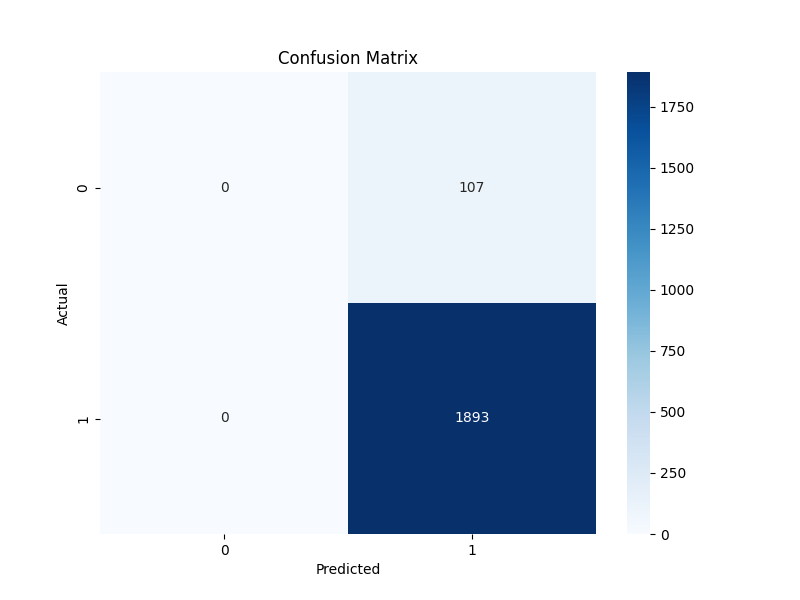
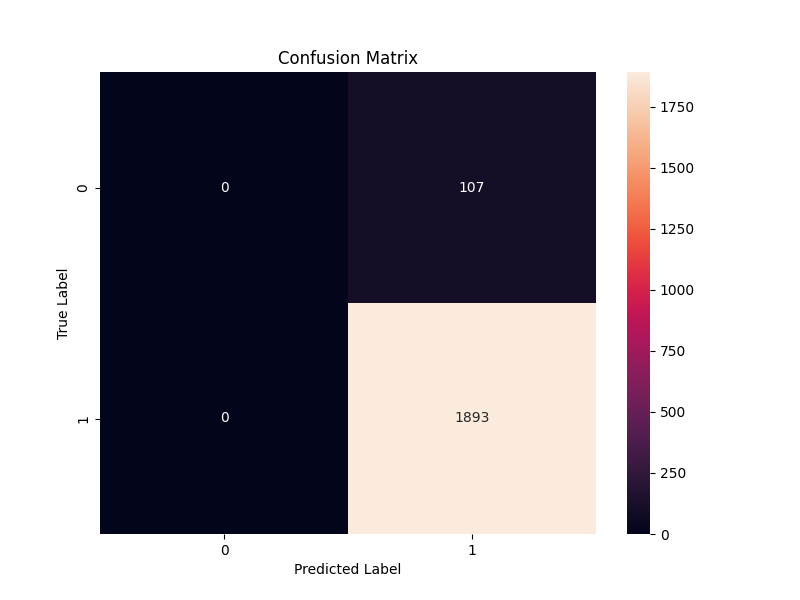
Capturing model performance within the model_performance.txt file

diff --git a/src/challenge_2/analysis.py b/src/challenge_2/analysis.py
@@ -160,8 +160,10 @@ log_result("\nTraining Logistic Regression model...")
 model = LogisticRegression(max_iter=1000)
 model.fit(X_train, y_train)
 
-# Model evaluation
+# Make predictions directly on X_test (it's already transformed)
 y_pred = model.predict(X_test)
+
+# Model evaluation
 log_result("\nClassification Report:")
 log_result(classification_report(y_test, y_pred))
 
@@ -378,33 +380,35 @@ class VoyagerIntegration:
         
         return decrypted_data
 
-# Add these lines at the end of your main script
-if __name__ == "__main__":
-    # Run the original analysis
-    run_security_analysis()
+# Add this after the model prediction section
+def save_model_metrics(y_test, y_pred, results_dir):
+    """Save model performance metrics"""
+    # Generate classification report
+    class_report = classification_report(y_test, y_pred)
     
-    # Run encryption workflow tests
-    print("\nTesting encryption workflow...")
-    test_results = test_encryption_workflow()
-    for result in test_results:
-        print(result)
-    
-    # Test Voyager integration
-    print("\nTesting Voyager integration...")
-    voyager = VoyagerIntegration()
-    
-    # Example Voyager data
-    test_data = {
-        'user_id': '12345',
-        'message': 'Sensitive information',
-        'timestamp': '2024-01-20 10:00:00'
-    }
-    
-    # Test encryption and decryption
-    encrypted_data = voyager.encrypt_voyager_data(test_data, 'voyager_password')
-    decrypted_data = voyager.decrypt_voyager_data(encrypted_data, 'voyager_password')
-    
-    print(f"Original data: {test_data}")
-    print(f"Encrypted data: {encrypted_data}")
-    print(f"Decrypted data: {decrypted_data}")
-    print(f"Data integrity maintained: {test_data == decrypted_data}") 
+    # Save classification report
+    with open(os.path.join(results_dir, 'model_performance.txt'), 'w') as f:
+        f.write("Classification Report:\n")
+        f.write("====================\n")
+        f.write(class_report)
+        
+        # Add additional metrics if needed
+        f.write("\nConfusion Matrix:\n")
+        f.write("================\n")
+        f.write(str(confusion_matrix(y_test, y_pred)))
+
+# Update the model training section
+# ... existing code ...
+y_pred = model.predict(X_test)
+
+# Save model metrics
+save_model_metrics(y_test, y_pred, results_dir)
+
+# Continue with existing confusion matrix visualization
+plt.figure(figsize=(8, 6))
+sns.heatmap(confusion_matrix(y_test, y_pred), annot=True, fmt='d')
+plt.title('Confusion Matrix')
+plt.ylabel('True Label')
+plt.xlabel('Predicted Label')
+plt.savefig(os.path.join(results_dir, 'confusion_matrix.png'))
+plt.close() 
